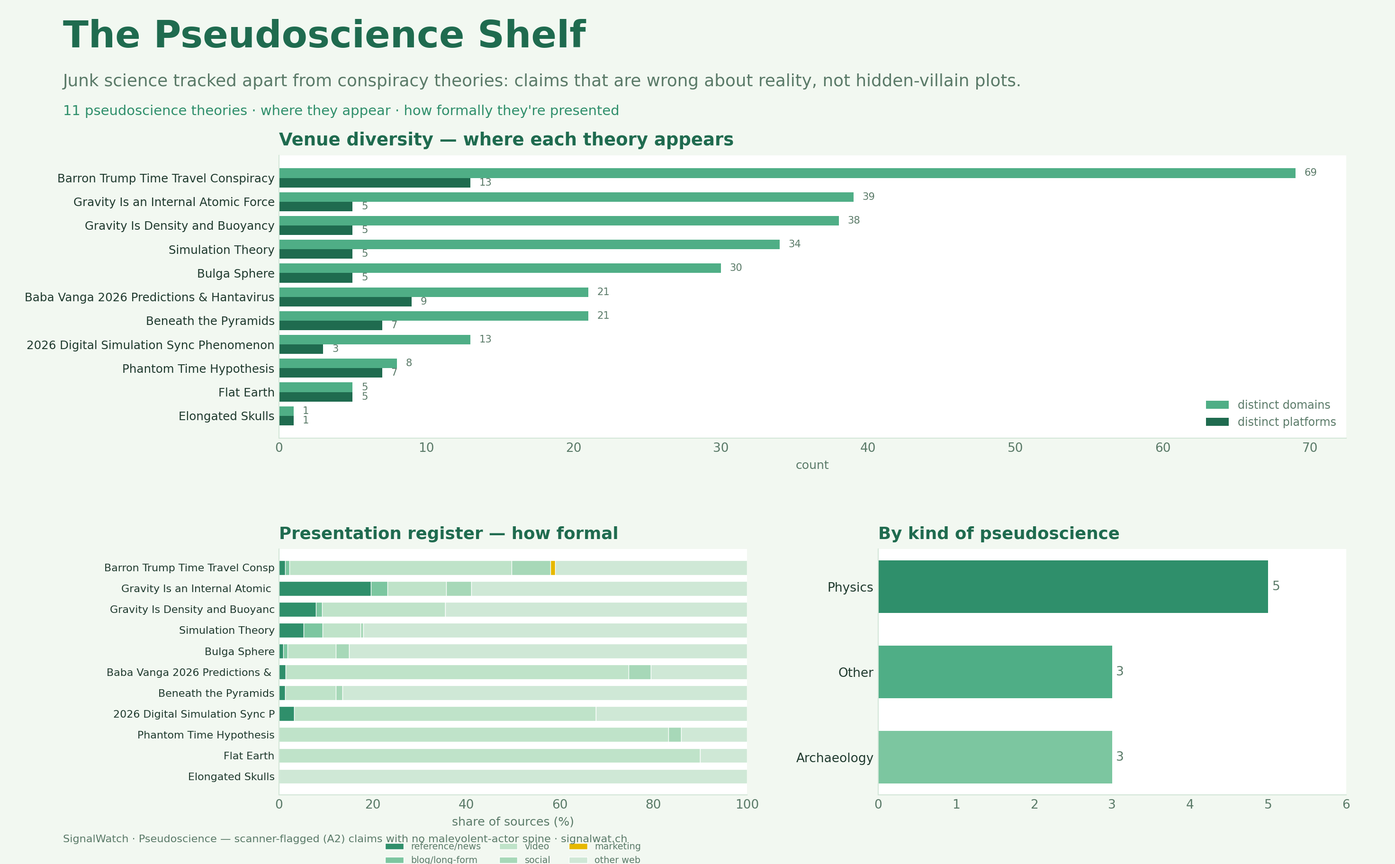
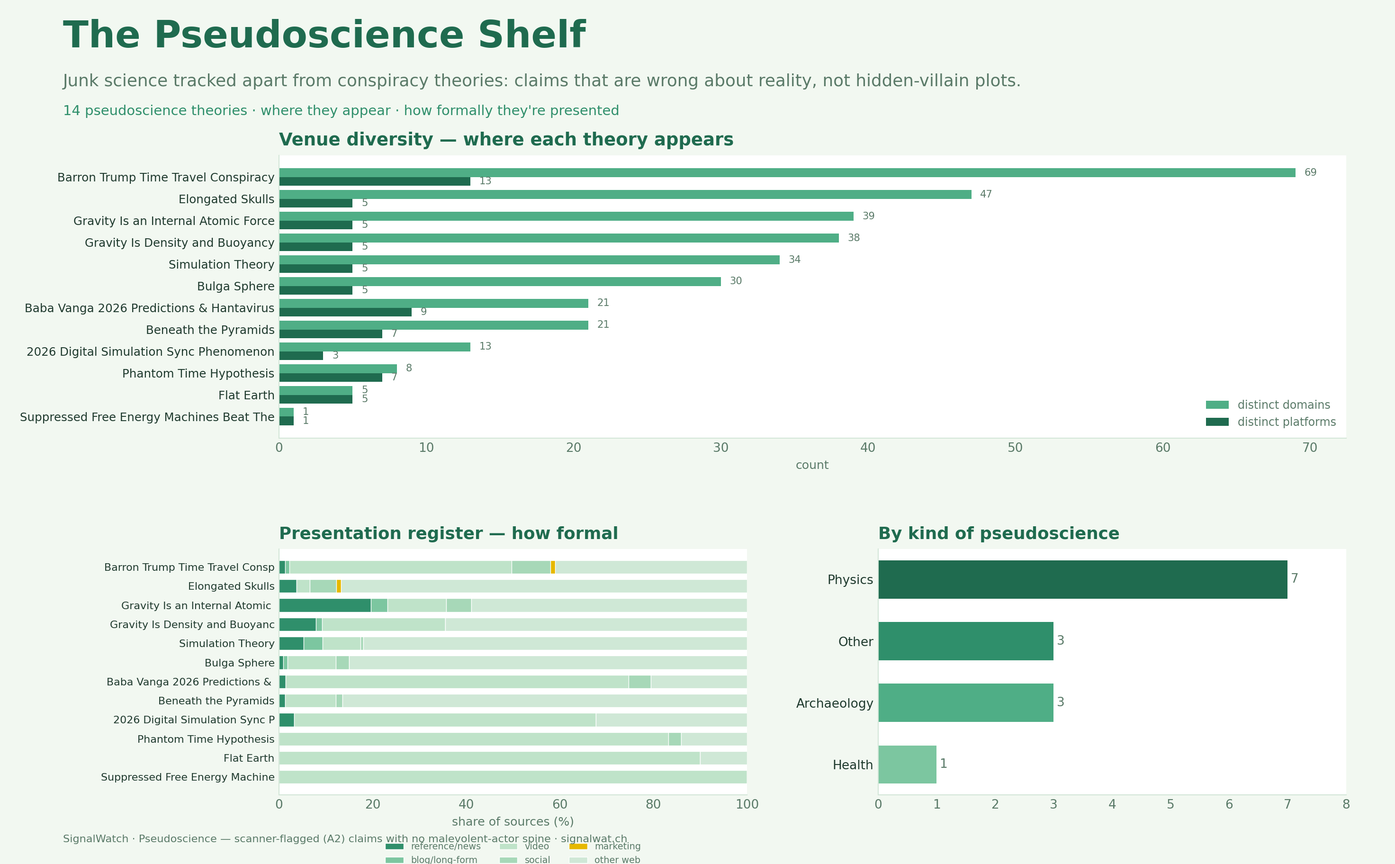
Theories index + proto section (18 proto)

diff --git a/latest/theories/index.html b/latest/theories/index.html
@@ -59,13 +59,13 @@ body{font-family:var(--sans);color:var(--ink);background:var(--bg);
     <a href="/latest/source-valence.html">Source Valence</a>
     <a href="/data/" title="Open datasets for researchers">Data</a>
     <a href="/pseudoscience/" title="Pseudoscience (junk science) tracked apart from conspiracies" style="color:#2f8f6b;font-weight:600">Pseudoscience</a>
-    
+    <a href="proto.html" style="color:#c2410c">Proto-theories</a>
   </nav>
 </div>
 <div class="layout">
   <aside class="side">
     <div class="shd">
-      <h2>Theories <span id="thcount" style="color:var(--ink-faint);font-size:.8rem">124</span></h2>
+      <h2>Theories <span id="thcount" style="color:var(--ink-faint);font-size:.8rem">106</span></h2>
       <input id="thsearch" type="search" placeholder="Search…" oninput="filt()">
     </div>
     
@@ -77,25 +77,21 @@ body{font-family:var(--sans);color:var(--ink);background:var(--bg);
 <button class="thx new" data-slug="aegon-chilakian" data-search="egon cholakian&#x27;s siberian plume eruption planetary catastrophe warning  informational" onclick="pick(this)"><span class="thn">Egon Cholakian&#x27;s Siberian Plume Eruption Planetary Catastrophe Warning</span><span class="thm">Informational</span></button>
 <div class="thgrp">All theories</div>
 <button class="thx" data-slug="viral-bitchute-rumble-2025-launched-with-coordinated-deep-state-psychological-op" data-search="2025 launched with coordinated deep state psychological operations  informational" onclick="pick(this)"><span class="thn">2025 launched with coordinated deep state psychological operations</span><span class="thm">Informational · 257 atoms</span></button>
-<button class="thx pseudo" data-slug="2026-digital-simulation-sync-phenomenon" data-search="2026 digital simulation sync phenomenon  informational" onclick="pick(this)"><span class="thn">2026 Digital Simulation Sync Phenomenon</span><span class="thm">Informational · 15 atoms</span></button>
-<button class="thx" data-slug="2026-mass-psyop-coordination-theory" data-search="2026 mass psyop coordination theory  informational" onclick="pick(this)"><span class="thn">2026 Mass Psyop Coordination Theory</span><span class="thm">Informational · 60 atoms</span></button>
-<button class="thx" data-slug="3i-atlas-interstellar-fuel-budget-conspiracy" data-search="3i/atlas interstellar fuel budget conspiracy  informational" onclick="pick(this)"><span class="thn">3I/ATLAS Interstellar Fuel Budget Conspiracy</span><span class="thm">Informational · 89 atoms</span></button>
+<button class="thx" data-slug="2026-mass-psyop-coordination-theory" data-search="2026 mass psyop coordination theory  informational deep state psyop season 2025 theory" onclick="pick(this)"><span class="thn">2026 Mass Psyop Coordination Theory</span><span class="thsub">↳ under Deep State Psyop Season 2025 Theory</span><span class="thm">Informational · 60 atoms</span></button>
 <button class="thx" data-slug="5g-covid-connection" data-search="5g/covid connection  moderate" onclick="pick(this)"><span class="thn">5G/COVID Connection</span><span class="thm">Moderate · 83 atoms</span></button>
 <button class="thx" data-slug="9-11-trutherism" data-search="9/11 trutherism  low" onclick="pick(this)"><span class="thn">9/11 Trutherism</span><span class="thm">Low · 306 atoms</span></button>
 <button class="thx" data-slug="adrenochrome-harvesting" data-search="adrenochrome harvesting  moderate" onclick="pick(this)"><span class="thn">Adrenochrome Harvesting</span><span class="thm">Moderate · 79 atoms</span></button>
-<button class="thx" data-slug="ai-portal-alien-summoning-theory" data-search="ai portal alien summoning theory  informational" onclick="pick(this)"><span class="thn">AI Portal Alien Summoning Theory</span><span class="thm">Informational · 34 atoms</span></button>
-<button class="thx" data-slug="area-51-ufo-coverup" data-search="area 51/ufo coverup  informational" onclick="pick(this)"><span class="thn">Area 51/UFO Coverup</span><span class="thm">Informational · 962 atoms</span></button>
+<button class="thx" data-slug="area-51-ufo-coverup" data-search="area 51/ufo coverup  informational spielberg ufo disclosure psyop theory" onclick="pick(this)"><span class="thn">Area 51/UFO Coverup</span><span class="thsub">▸ 1 sub-theory</span><span class="thm">Informational · 962 atoms</span></button>
 <button class="thx" data-slug="artemis-ii-hoax" data-search="artemis ii hoax  high" onclick="pick(this)"><span class="thn">Artemis II Hoax</span><span class="thm">High · 116 atoms</span></button>
 <button class="thx pseudo" data-slug="baba-vanga-2026-predictions-hantavirus" data-search="baba vanga 2026 predictions &amp; hantavirus prophecy  low" onclick="pick(this)"><span class="thn">Baba Vanga 2026 Predictions &amp; Hantavirus Prophecy</span><span class="thm">Low · 147 atoms</span></button>
 <button class="thx" data-slug="ballot-harvesting" data-search="ballot harvesting  moderate" onclick="pick(this)"><span class="thn">Ballot Harvesting</span><span class="thm">Moderate · 133 atoms</span></button>
 <button class="thx pseudo" data-slug="barron-trump-time-travel-conspiracy" data-search="barron trump time travel conspiracy  informational" onclick="pick(this)"><span class="thn">Barron Trump Time Travel Conspiracy</span><span class="thm">Informational · 308 atoms</span></button>
 <button class="thx pseudo" data-slug="beneath-the-pyramids" data-search="beneath the pyramids  informational" onclick="pick(this)"><span class="thn">Beneath the Pyramids</span><span class="thm">Informational · 77 atoms</span></button>
-<button class="thx" data-slug="big-pharma-suppression" data-search="big pharma suppression  moderate" onclick="pick(this)"><span class="thn">Big Pharma Suppression</span><span class="thm">Moderate · 122 atoms</span></button>
+<button class="thx" data-slug="big-pharma-suppression" data-search="big pharma suppression  moderate no-virus conspiracy" onclick="pick(this)"><span class="thn">Big Pharma Suppression</span><span class="thsub">▸ 1 sub-theory</span><span class="thm">Moderate · 122 atoms</span></button>
 <button class="thx" data-slug="bill-gates-microchip" data-search="bill gates microchip  moderate" onclick="pick(this)"><span class="thn">Bill Gates Microchip</span><span class="thm">Moderate · 206 atoms</span></button>
 <button class="thx" data-slug="body-double-theory" data-search="body double theory  informational" onclick="pick(this)"><span class="thn">Body Double Theory</span><span class="thm">Informational · 100 atoms</span></button>
 <button class="thx" data-slug="bondi-beach-mossad-false-flag" data-search="bondi beach mossad false flag  informational" onclick="pick(this)"><span class="thn">Bondi Beach Mossad False Flag</span><span class="thm">Informational · 218 atoms</span></button>
-<button class="thx pseudo" data-slug="bulga-sphere" data-search="bulga sphere  informational" onclick="pick(this)"><span class="thn">Bulga Sphere</span><span class="thm">Informational · 122 atoms</span></button>
-<button class="thx" data-slug="bush-stole-the-2000-election" data-search="bush stole the 2000 election  elevated" onclick="pick(this)"><span class="thn">Bush Stole the 2000 Election</span><span class="thm">Elevated · 52 atoms</span></button>
+<button class="thx" data-slug="bush-stole-the-2000-election" data-search="bush stole the 2000 election  elevated stop the steal" onclick="pick(this)"><span class="thn">Bush Stole the 2000 Election</span><span class="thsub">↳ under Stop the Steal</span><span class="thm">Elevated · 52 atoms</span></button>
 <button class="thx" data-slug="butler-shooting-staged" data-search="butler shooting staged  elevated" onclick="pick(this)"><span class="thn">Butler Shooting Staged</span><span class="thm">Elevated · 261 atoms</span></button>
 <button class="thx" data-slug="cancer-cure-suppression-conspiracy" data-search="cancer cure suppression conspiracy  moderate" onclick="pick(this)"><span class="thn">Cancer Cure Suppression Conspiracy</span><span class="thm">Moderate · 168 atoms</span></button>
 <button class="thx" data-slug="challenger-crew-still-alive" data-search="challenger crew still alive  elevated" onclick="pick(this)"><span class="thn">Challenger Crew Still Alive</span><span class="thm">Elevated · 48 atoms</span></button>
@@ -103,16 +99,13 @@ body{font-family:var(--sans);color:var(--ink);background:var(--bg);
 <button class="thx" data-slug="charlie-kirk-staged-death-cover-up" data-search="charlie kirk staged death cover-up  informational" onclick="pick(this)"><span class="thn">Charlie Kirk Staged Death Cover-Up</span><span class="thm">Informational · 276 atoms</span></button>
 <button class="thx" data-slug="chemtrails" data-search="chemtrails  low" onclick="pick(this)"><span class="thn">Chemtrails</span><span class="thm">Low · 352 atoms</span></button>
 <button class="thx" data-slug="covid-lab-leak" data-search="covid lab leak  informational" onclick="pick(this)"><span class="thn">COVID Lab Leak</span><span class="thm">Informational · 565 atoms</span></button>
-<button class="thx" data-slug="crisis-actors" data-search="crisis actors  high" onclick="pick(this)"><span class="thn">Crisis Actors</span><span class="thm">High · 317 atoms</span></button>
-<button class="thx" data-slug="dark-forest-theory" data-search="dark forest theory  informational" onclick="pick(this)"><span class="thn">Dark Forest Theory</span><span class="thm">Informational · 45 atoms</span></button>
+<button class="thx" data-slug="crisis-actors" data-search="crisis actors  high minnesota shooting psyop theory" onclick="pick(this)"><span class="thn">Crisis Actors</span><span class="thsub">▸ 1 sub-theory</span><span class="thm">High · 317 atoms</span></button>
 <button class="thx" data-slug="dead-people-voting" data-search="dead people voting  moderate" onclick="pick(this)"><span class="thn">Dead People Voting</span><span class="thm">Moderate · 151 atoms</span></button>
 <button class="thx" data-slug="deep-state" data-search="deep state  moderate" onclick="pick(this)"><span class="thn">Deep State</span><span class="thm">Moderate · 398 atoms</span></button>
-<button class="thx" data-slug="deep-state-psyop-season-2025-theory" data-search="deep state psyop season 2025 theory  informational" onclick="pick(this)"><span class="thn">Deep State Psyop Season 2025 Theory</span><span class="thm">Informational · 184 atoms</span></button>
-<button class="thx" data-slug="degendering-parenthood" data-search="degendering parenthood  high" onclick="pick(this)"><span class="thn">Degendering Parenthood</span><span class="thm">High · 47 atoms</span></button>
-<button class="thx" data-slug="democrats-knicks-loss-blame-trump" data-search="democrats wanted the knicks to lose to blame trump  informational" onclick="pick(this)"><span class="thn">Democrats Wanted the Knicks to Lose to Blame Trump</span><span class="thm">Informational · 8 atoms</span></button>
+<button class="thx" data-slug="deep-state-psyop-season-2025-theory" data-search="deep state psyop season 2025 theory  informational 2026 mass psyop coordination theory" onclick="pick(this)"><span class="thn">Deep State Psyop Season 2025 Theory</span><span class="thsub">▸ 1 sub-theory</span><span class="thm">Informational · 184 atoms</span></button>
 <button class="thx" data-slug="depopulation-agenda" data-search="depopulation agenda  high" onclick="pick(this)"><span class="thn">Depopulation Agenda</span><span class="thm">High · 187 atoms</span></button>
 <button class="thx" data-slug="dnc-rigged-the-2016-primary-against-bernie" data-search="dnc rigged the 2016 primary against bernie  elevated" onclick="pick(this)"><span class="thn">DNC Rigged the 2016 Primary Against Bernie</span><span class="thm">Elevated · 154 atoms</span></button>
-<button class="thx" data-slug="dominion-voting-machines" data-search="dominion voting machines  moderate" onclick="pick(this)"><span class="thn">Dominion Voting Machines</span><span class="thm">Moderate · 148 atoms</span></button>
+<button class="thx" data-slug="dominion-voting-machines" data-search="dominion voting machines  moderate stop the steal" onclick="pick(this)"><span class="thn">Dominion Voting Machines</span><span class="thsub">↳ under Stop the Steal</span><span class="thm">Moderate · 148 atoms</span></button>
 <button class="thx" data-slug="douma-chemical-attack-was-a-staged-false-flag" data-search="douma chemical attack was a staged false flag  elevated" onclick="pick(this)"><span class="thn">Douma Chemical Attack Was a Staged False Flag</span><span class="thm">Elevated · 113 atoms</span></button>
 <button class="thx pseudo" data-slug="elongated-skulls-paracas-peru-and-elsewhere-as-evidence-of-a-separate-intelligen" data-search="elongated skulls  elevated" onclick="pick(this)"><span class="thn">Elongated Skulls</span><span class="thm">Elevated · 63 atoms</span></button>
 <button class="thx" data-slug="emp-apocalypse" data-search="emp apocalypse  low" onclick="pick(this)"><span class="thn">EMP Apocalypse</span><span class="thm">Low · 103 atoms</span></button>
@@ -124,77 +117,66 @@ body{font-family:var(--sans);color:var(--ink);background:var(--bg);
 <button class="thx" data-slug="frazzledrip" data-search="frazzledrip  moderate" onclick="pick(this)"><span class="thn">Frazzledrip</span><span class="thm">Moderate · 70 atoms</span></button>
 <button class="thx" data-slug="gmo-ticks-alpha-gal-meat-allergy-weapon" data-search="gmo ticks alpha-gal meat allergy weapon  moderate" onclick="pick(this)"><span class="thn">GMO Ticks Alpha-Gal Meat Allergy Weapon</span><span class="thm">Moderate · 88 atoms</span></button>
 <button class="thx" data-slug="viral-tiktok-government-history-and-reality-are-all-manipulated-book-reveals-dee" data-search="government, history, and reality are all manipulated - book reveals deep deception  informational" onclick="pick(this)"><span class="thn">Government, history, and reality are all manipulated - book reveals deep deception</span><span class="thm">Informational · 143 atoms</span></button>
-<button class="thx pseudo" data-slug="gravity-is-an-internal-atomic-force" data-search="gravity is an internal atomic force  informational" onclick="pick(this)"><span class="thn">Gravity Is an Internal Atomic Force</span><span class="thm">Informational · 56 atoms</span></button>
 <button class="thx pseudo" data-slug="gravity-is-density-and-buoyancy" data-search="gravity is density and buoyancy  informational" onclick="pick(this)"><span class="thn">Gravity Is Density and Buoyancy</span><span class="thm">Informational · 77 atoms</span></button>
 <button class="thx" data-slug="great-replacement" data-search="great replacement  critical" onclick="pick(this)"><span class="thn">Great Replacement</span><span class="thm">Critical · 112 atoms</span></button>
 <button class="thx" data-slug="haarp-weather-control" data-search="haarp weather control  low" onclick="pick(this)"><span class="thn">HAARP Weather Control</span><span class="thm">Low · 177 atoms</span></button>
 <button class="thx" data-slug="haitians-eating-pets" data-search="haitians eating pets  high" onclick="pick(this)"><span class="thn">Haitians Eating Pets</span><span class="thm">High · 98 atoms</span></button>
 <button class="thx" data-slug="hanta-means-fake-or-scam-in-israeli-slang" data-search="hanta means fake or scam in israeli slang  low" onclick="pick(this)"><span class="thn">Hanta means fake or scam in Israeli slang</span><span class="thm">Low · 272 atoms</span></button>
 <button class="thx" data-slug="hantavirus-plandemic-successor-theory" data-search="hantavirus plandemic successor theory  moderate" onclick="pick(this)"><span class="thn">Hantavirus Plandemic Successor Theory</span><span class="thm">Moderate · 393 atoms</span></button>
-<button class="thx" data-slug="high-diesel-prices-staged-psyop" data-search="high diesel prices staged  informational" onclick="pick(this)"><span class="thn">High Diesel Prices Staged</span><span class="thm">Informational · 6 atoms</span></button>
 <button class="thx" data-slug="hollow-earth" data-search="hollow earth  informational" onclick="pick(this)"><span class="thn">Hollow Earth</span><span class="thm">Informational · 160 atoms</span></button>
 <button class="thx" data-slug="hugo-chavez-venezuela-connection" data-search="hugo chavez/venezuela connection  low" onclick="pick(this)"><span class="thn">Hugo Chavez/Venezuela Connection</span><span class="thm">Low · 70 atoms</span></button>
 <button class="thx" data-slug="illuminati-card-game-prophecy" data-search="illuminati card game prophecy (inwo)  low" onclick="pick(this)"><span class="thn">Illuminati Card Game Prophecy (INWO)</span><span class="thm">Low · 38 atoms</span></button>
 <button class="thx" data-slug="illuminati-secret-societies" data-search="illuminati/secret societies  low" onclick="pick(this)"><span class="thn">Illuminati/Secret Societies</span><span class="thm">Low · 306 atoms</span></button>
-<button class="thx" data-slug="iran-s-alleged-manipulation-of-regional-climate-through-radar-interference-is-li" data-search="iran&#x27;s alleged manipulation of regional climate through radar interference is linked to severe we  informational" onclick="pick(this)"><span class="thn">Iran&#x27;s alleged manipulation of regional climate through radar interference is linked to severe we</span><span class="thm">Informational · 35 atoms</span></button>
 <button class="thx" data-slug="jade-helm" data-search="jade helm  informational" onclick="pick(this)"><span class="thn">Jade Helm</span><span class="thm">Informational · 60 atoms</span></button>
 <button class="thx" data-slug="jfk-assassination-theories" data-search="jfk assassination theories  informational" onclick="pick(this)"><span class="thn">JFK Assassination Theories</span><span class="thm">Informational · 166 atoms</span></button>
 <button class="thx" data-slug="jfk-jr-alive" data-search="jfk jr. alive  low" onclick="pick(this)"><span class="thn">JFK Jr. Alive</span><span class="thm">Low · 254 atoms</span></button>
 <button class="thx" data-slug="maha-moms" data-search="maha moms  informational" onclick="pick(this)"><span class="thn">MAHA moms</span><span class="thm">Informational · 101 atoms</span></button>
 <button class="thx" data-slug="martial-law-imminence" data-search="martial law imminence  moderate" onclick="pick(this)"><span class="thn">Martial Law Imminence</span><span class="thm">Moderate · 70 atoms</span></button>
 <button class="thx" data-slug="maui-fires-directed-energy-weapon-theory" data-search="maui fires directed energy weapon theory  informational" onclick="pick(this)"><span class="thn">Maui Fires Directed Energy Weapon Theory</span><span class="thm">Informational · 88 atoms</span></button>
-<button class="thx" data-slug="mcdonald-s-mind-control" data-search="mcdonald&#x27;s mind control  informational" onclick="pick(this)"><span class="thn">McDonald&#x27;s Mind Control</span><span class="thm">Informational · 35 atoms</span></button>
+<button class="thx" data-slug="mcdonald-s-mind-control" data-search="mcdonald&#x27;s mind control  informational mkultra (extended)" onclick="pick(this)"><span class="thn">McDonald&#x27;s Mind Control</span><span class="thsub">↳ under MKUltra (Extended)</span><span class="thm">Informational · 35 atoms</span></button>
 <button class="thx" data-slug="medbeds" data-search="medbeds  moderate" onclick="pick(this)"><span class="thn">Medbeds</span><span class="thm">Moderate · 235 atoms</span></button>
 <button class="thx" data-slug="microneedle-implants-theory" data-search="microneedle implants theory  informational" onclick="pick(this)"><span class="thn">Microneedle Implants Theory</span><span class="thm">Informational · 40 atoms</span></button>
-<button class="thx" data-slug="minnesota-shooting-psyop-theory" data-search="minnesota shooting psyop theory  moderate" onclick="pick(this)"><span class="thn">Minnesota Shooting Psyop Theory</span><span class="thm">Moderate · 21 atoms</span></button>
+<button class="thx" data-slug="minnesota-shooting-psyop-theory" data-search="minnesota shooting psyop theory  moderate crisis actors" onclick="pick(this)"><span class="thn">Minnesota Shooting Psyop Theory</span><span class="thsub">↳ under Crisis Actors</span><span class="thm">Moderate · 21 atoms</span></button>
 <button class="thx" data-slug="missing-scientists" data-search="missing scientists  informational" onclick="pick(this)"><span class="thn">Missing Scientists</span><span class="thm">Informational · 272 atoms</span></button>
-<button class="thx" data-slug="mkultra-extended" data-search="mkultra (extended)  low" onclick="pick(this)"><span class="thn">MKUltra (Extended)</span><span class="thm">Low · 188 atoms</span></button>
+<button class="thx" data-slug="mkultra-extended" data-search="mkultra (extended)  low mcdonald&#x27;s mind control" onclick="pick(this)"><span class="thn">MKUltra (Extended)</span><span class="thsub">▸ 1 sub-theory</span><span class="thm">Low · 188 atoms</span></button>
 <button class="thx" data-slug="moon-landing-hoax" data-search="moon landing hoax  informational" onclick="pick(this)"><span class="thn">Moon Landing Hoax</span><span class="thm">Informational · 201 atoms</span></button>
 <button class="thx" data-slug="mrna-gene-therapy" data-search="mrna gene therapy  high" onclick="pick(this)"><span class="thn">mRNA Gene Therapy</span><span class="thm">High · 198 atoms</span></button>
 <button class="thx" data-slug="mysterious-deaths-and-disappearances-linked-to-america-s-nuclear-secrets" data-search="mysterious deaths and disappearances linked to america&#x27;s nuclear secrets  informational" onclick="pick(this)"><span class="thn">Mysterious Deaths and Disappearances Linked to America&#x27;s Nuclear Secrets</span><span class="thm">Informational · 242 atoms</span></button>
-<button class="thx" data-slug="mysterious-pipe" data-search="mysterious pipe  low" onclick="pick(this)"><span class="thn">Mysterious Pipe</span><span class="thm">Low</span></button>
 <button class="thx" data-slug="nazi-wonder-weapons" data-search="nazi wonder weapons  informational" onclick="pick(this)"><span class="thn">Nazi Wonder Weapons</span><span class="thm">Informational · 102 atoms</span></button>
 <button class="thx" data-slug="netanyahu-is-dead" data-search="netanyahu is dead  informational" onclick="pick(this)"><span class="thn">Netanyahu is Dead</span><span class="thm">Informational · 189 atoms</span></button>
 <button class="thx" data-slug="new-world-order" data-search="new world order  moderate" onclick="pick(this)"><span class="thn">New World Order</span><span class="thm">Moderate · 226 atoms</span></button>
 <button class="thx" data-slug="nick-fuentes-as-a-target-of-persecution" data-search="nick fuentes as a target of persecution  informational" onclick="pick(this)"><span class="thn">Nick Fuentes as a Target of Persecution</span><span class="thm">Informational · 57 atoms</span></button>
-<button class="thx" data-slug="no-virus-conspiracy" data-search="no-virus conspiracy  informational" onclick="pick(this)"><span class="thn">No-Virus Conspiracy</span><span class="thm">Informational · 28 atoms</span></button>
+<button class="thx" data-slug="no-virus-conspiracy" data-search="no-virus conspiracy  informational big pharma suppression" onclick="pick(this)"><span class="thn">No-Virus Conspiracy</span><span class="thsub">↳ under Big Pharma Suppression</span><span class="thm">Informational · 28 atoms</span></button>
 <button class="thx" data-slug="nuclear-weapons-hoax-atomic-weapons-do-not-exist" data-search="nuclear weapons hoax / atomic weapons do not exist  low" onclick="pick(this)"><span class="thn">Nuclear Weapons Hoax / Atomic Weapons Do Not Exist</span><span class="thm">Low · 39 atoms</span></button>
 <button class="thx" data-slug="october-6th-attack-on-israel-was-a-false-flag" data-search="october 6th attack on israel was a false flag  informational" onclick="pick(this)"><span class="thn">October 6th Attack on Israel Was A False Flag</span><span class="thm">Informational · 80 atoms</span></button>
 <button class="thx" data-slug="pfizer-hantavirus-vaccine-side-effect" data-search="pfizer hantavirus vaccine side effect  moderate" onclick="pick(this)"><span class="thn">Pfizer Hantavirus Vaccine Side Effect</span><span class="thm">Moderate · 283 atoms</span></button>
 <button class="thx pseudo" data-slug="phantom-time-hypothesis" data-search="phantom time hypothesis  informational" onclick="pick(this)"><span class="thn">Phantom Time Hypothesis</span><span class="thm">Informational · 149 atoms</span></button>
 <button class="thx" data-slug="pizzagate" data-search="pizzagate  high" onclick="pick(this)"><span class="thn">Pizzagate</span><span class="thm">High · 300 atoms</span></button>
 <button class="thx" data-slug="planet-x-nibiru" data-search="planet x/nibiru  low" onclick="pick(this)"><span class="thn">Planet X/Nibiru</span><span class="thm">Low · 207 atoms</span></button>
-<button class="thx" data-slug="project-a119-cultural-layer-sanitization-theory" data-search="project a119 cultural layer sanitization theory  informational" onclick="pick(this)"><span class="thn">Project A119 Cultural Layer Sanitization Theory</span><span class="thm">Informational · 72 atoms</span></button>
 <button class="thx" data-slug="protocols-of-the-elders-of-zion" data-search="protocols of the elders of zion  high" onclick="pick(this)"><span class="thn">Protocols of the Elders of Zion</span><span class="thm">High · 117 atoms</span></button>
-<button class="thx" data-slug="qanon" data-search="qanon  critical" onclick="pick(this)"><span class="thn">QAnon</span><span class="thm">Critical · 144 atoms</span></button>
+<button class="thx" data-slug="qanon" data-search="qanon  critical save the children (co-opted)" onclick="pick(this)"><span class="thn">QAnon</span><span class="thsub">▸ 1 sub-theory</span><span class="thm">Critical · 144 atoms</span></button>
 <button class="thx" data-slug="quantum-tartarian-reset-theory" data-search="quantum tartarian reset theory  informational" onclick="pick(this)"><span class="thn">Quantum Tartarian Reset Theory</span><span class="thm">Informational · 11 atoms</span></button>
 <button class="thx" data-slug="reptilian-elites" data-search="reptilian elite conspiracy theory  elevated" onclick="pick(this)"><span class="thn">Reptilian Elite Conspiracy Theory</span><span class="thm">Elevated · 12 atoms</span></button>
 <button class="thx" data-slug="robert-hayward-body-double" data-search="robert harward body double?  low" onclick="pick(this)"><span class="thn">Robert Harward Body Double?</span><span class="thm">Low · 109 atoms</span></button>
 <button class="thx" data-slug="rothschild-banking-conspiracy" data-search="rothschild banking conspiracy  moderate" onclick="pick(this)"><span class="thn">Rothschild Banking Conspiracy</span><span class="thm">Moderate · 129 atoms</span></button>
 <button class="thx" data-slug="russia-rigged-2016-voting-machines" data-search="russia rigged 2016 voting machines  elevated" onclick="pick(this)"><span class="thn">Russia Rigged 2016 Voting Machines</span><span class="thm">Elevated · 117 atoms</span></button>
 <button class="thx" data-slug="sandy-hook-hoax" data-search="sandy hook hoax  critical" onclick="pick(this)"><span class="thn">Sandy Hook Hoax</span><span class="thm">Critical · 309 atoms</span></button>
-<button class="thx" data-slug="save-the-children-co-opted" data-search="save the children (co-opted)  moderate" onclick="pick(this)"><span class="thn">Save the Children (Co-opted)</span><span class="thm">Moderate · 42 atoms</span></button>
+<button class="thx" data-slug="save-the-children-co-opted" data-search="save the children (co-opted)  moderate qanon" onclick="pick(this)"><span class="thn">Save the Children (Co-opted)</span><span class="thsub">↳ under QAnon</span><span class="thm">Moderate · 42 atoms</span></button>
 <button class="thx pseudo" data-slug="simulation-theory" data-search="simulation theory  informational" onclick="pick(this)"><span class="thn">Simulation Theory</span><span class="thm">Informational · 172 atoms</span></button>
-<button class="thx" data-slug="skywatcher-uap-detection" data-search="skywatcher uap detection  informational" onclick="pick(this)"><span class="thn">Skywatcher UAP Detection</span><span class="thm">Informational · 152 atoms</span></button>
-<button class="thx" data-slug="spielberg-ufo-disclosure-psyop-theory" data-search="spielberg ufo disclosure psyop theory  informational" onclick="pick(this)"><span class="thn">Spielberg UFO Disclosure Psyop Theory</span><span class="thm">Informational · 236 atoms</span></button>
-<button class="thx" data-slug="stop-the-steal" data-search="stop the steal  critical" onclick="pick(this)"><span class="thn">Stop the Steal</span><span class="thm">Critical · 327 atoms</span></button>
+<button class="thx" data-slug="spielberg-ufo-disclosure-psyop-theory" data-search="spielberg ufo disclosure psyop theory  informational area 51/ufo coverup" onclick="pick(this)"><span class="thn">Spielberg UFO Disclosure Psyop Theory</span><span class="thsub">↳ under Area 51/UFO Coverup</span><span class="thm">Informational · 236 atoms</span></button>
+<button class="thx" data-slug="stop-the-steal" data-search="stop the steal  critical dominion voting machines, bush stole the 2000 election" onclick="pick(this)"><span class="thn">Stop the Steal</span><span class="thsub">▸ 2 sub-theories</span><span class="thm">Critical · 327 atoms</span></button>
 <button class="thx" data-slug="super-computer-called-sentient-declassified" data-search="super computer called &quot;sentient&quot; declassified  low" onclick="pick(this)"><span class="thn">Super computer called &quot;Sentient&quot; declassified</span><span class="thm">Low · 21 atoms</span></button>
 <button class="thx" data-slug="tartarian-empire" data-search="tartarian empire  informational" onclick="pick(this)"><span class="thn">Tartarian Empire</span><span class="thm">Informational · 141 atoms</span></button>
-<button class="thx" data-slug="the-baal-room" data-search="the baal room  moderate" onclick="pick(this)"><span class="thn">The Baal Room</span><span class="thm">Moderate · 258 atoms</span></button>
-<button class="thx" data-slug="the-ettore-majorana-device" data-search="the ettore majorana device  informational" onclick="pick(this)"><span class="thn">The Ettore Majorana Device</span><span class="thm">Informational</span></button>
 <button class="thx" data-slug="the-great-reset" data-search="the great reset  moderate" onclick="pick(this)"><span class="thn">The Great Reset</span><span class="thm">Moderate · 142 atoms</span></button>
 <button class="thx" data-slug="the-storm-great-awakening" data-search="the storm / great awakening  high" onclick="pick(this)"><span class="thn">The Storm / Great Awakening</span><span class="thm">High · 115 atoms</span></button>
-<button class="thx" data-slug="torenza-passport-country-hoax" data-search="torenza passport country hoax  informational" onclick="pick(this)"><span class="thn">Torenza Passport Country Hoax</span><span class="thm">Informational · 114 atoms</span></button>
 <button class="thx" data-slug="transing-the-kids" data-search="transing the kids  elevated" onclick="pick(this)"><span class="thn">Transing the Kids</span><span class="thm">Elevated · 182 atoms</span></button>
 <button class="thx" data-slug="transvestigation" data-search="transvestigation  moderate" onclick="pick(this)"><span class="thn">Transvestigation</span><span class="thm">Moderate · 70 atoms</span></button>
 <button class="thx" data-slug="trump-assassination-attempt-was-faked" data-search="trump assassination attempt was faked  informational" onclick="pick(this)"><span class="thn">Trump Assassination Attempt was faked</span><span class="thm">Informational · 258 atoms</span></button>
 <button class="thx" data-slug="trump-chemtrails-task-force-operation" data-search="trump chemtrails task force operation  informational" onclick="pick(this)"><span class="thn">Trump Chemtrails Task Force Operation</span><span class="thm">Informational · 173 atoms</span></button>
-<button class="thx" data-slug="trump-mobile-palantir-surveillance-honeytrap" data-search="trump mobile palantir surveillance honeytrap  low" onclick="pick(this)"><span class="thn">Trump Mobile Palantir Surveillance Honeytrap</span><span class="thm">Low · 9 atoms</span></button>
 <button class="thx" data-slug="trump-situation-room-exclusion-theory" data-search="trump situation room exclusion theory  informational" onclick="pick(this)"><span class="thn">Trump Situation Room Exclusion Theory</span><span class="thm">Informational · 25 atoms</span></button>
 <button class="thx" data-slug="uk-grooming-gangs-narrative" data-search="uk muslim grooming gangs &amp; immigrant-crime narrative  elevated" onclick="pick(this)"><span class="thn">UK Muslim Grooming Gangs &amp; immigrant-crime narrative</span><span class="thm">Elevated · 2 atoms</span></button>
 <button class="thx" data-slug="vaccines-cause-autism" data-search="vaccines cause autism  high" onclick="pick(this)"><span class="thn">Vaccines Cause Autism</span><span class="thm">High · 176 atoms</span></button>
 <button class="thx" data-slug="whcd-security-stand-down-protocol" data-search="whcd security stand-down protocol  informational" onclick="pick(this)"><span class="thn">WHCD Security Stand-Down Protocol</span><span class="thm">Informational · 236 atoms</span></button>
-<button class="thx" data-slug="woke-hate-group-manufacturing-scandal" data-search="woke hate group manufacturing scandal  informational" onclick="pick(this)"><span class="thn">Woke Hate Group Manufacturing Scandal</span><span class="thm">Informational · 21 atoms</span></button>
 <button class="thx" data-slug="zog-zionist-occupied-government" data-search="zog (zionist occupied government)  critical" onclick="pick(this)"><span class="thn">ZOG (Zionist Occupied Government)</span><span class="thm">Critical · 129 atoms</span></button>
       <div class="thnone" id="thnone">No theories match.</div>
     </div>

diff --git a/pseudoscience/index.html b/pseudoscience/index.html
@@ -39,7 +39,7 @@ h1{font-family:var(--serif);font-weight:600;font-size:2.05rem;margin:0 0 6px;col
 <div class="wrap">
   <h1>Pseudoscience</h1>
   <p class="lede">Junk science tracked <i>apart</i> from conspiracy theories — claims that are wrong about
-   physical reality, history, or how the world works, rather than hidden-villain plots. 11 theories,
+   physical reality, history, or how the world works, rather than hidden-villain plots. 14 theories,
    updated 2026-06-20.</p>
   <div class="note"><b>What makes this a separate shelf:</b> these are flagged by SignalWatch's pseudoscience
    scanner (the A2 marker battery — physical-law violations, fringe-cosmology, pseudo-archaeology) <b>and</b>
@@ -51,5 +51,5 @@ h1{font-family:var(--serif);font-weight:600;font-size:2.05rem;margin:0 0 6px;col
    where each theory appears (distinct platforms + domains). <b>Presentation register</b> shows how formally it's
    presented — reference/news, blog/long-form, video, social, or marketing material — a proxy for white-paper
    vs. blog vs. marketing framing. Most pseudoscience travels through video and social channels, not journals.</p>
-  <h2 class="ps-kind">Crank physics &amp; cosmology <span>5</span></h2><div class="ps-grid"><a class="ps-card" href="/latest/theories/barron-trump-time-travel-conspiracy.html"><h3>Barron Trump Time Travel Conspiracy</h3><span class="ps-meta">Informational · 308 atoms</span></a><a class="ps-card" href="/latest/theories/flat-earth.html"><h3>Flat Earth</h3><span class="ps-meta">Low · 90 atoms</span></a><a class="ps-card" href="/latest/theories/gravity-is-an-internal-atomic-force.html"><h3>Gravity Is an Internal Atomic Force</h3><span class="ps-meta">Informational · 56 atoms</span></a><a class="ps-card" href="/latest/theories/gravity-is-density-and-buoyancy.html"><h3>Gravity Is Density and Buoyancy</h3><span class="ps-meta">Informational · 77 atoms</span></a><a class="ps-card" href="/latest/theories/simulation-theory.html"><h3>Simulation Theory</h3><span class="ps-meta">Informational · 172 atoms</span></a></div><h2 class="ps-kind">Other <span>3</span></h2><div class="ps-grid"><a class="ps-card" href="/latest/theories/2026-digital-simulation-sync-phenomenon.html"><h3>2026 Digital Simulation Sync Phenomenon</h3><span class="ps-meta">Informational · 15 atoms</span></a><a class="ps-card" href="/latest/theories/baba-vanga-2026-predictions-hantavirus.html"><h3>Baba Vanga 2026 Predictions &amp; Hantavirus Prophecy</h3><span class="ps-meta">Low · 147 atoms</span></a><a class="ps-card" href="/latest/theories/bulga-sphere.html"><h3>Bulga Sphere</h3><span class="ps-meta">Informational · 122 atoms</span></a></div><h2 class="ps-kind">Pseudo-archaeology &amp; lost history <span>3</span></h2><div class="ps-grid"><a class="ps-card" href="/latest/theories/beneath-the-pyramids.html"><h3>Beneath the Pyramids</h3><span class="ps-meta">Informational · 77 atoms</span></a><a class="ps-card" href="/latest/theories/elongated-skulls-paracas-peru-and-elsewhere-as-evidence-of-a-separate-intelligen.html"><h3>Elongated Skulls</h3><span class="ps-meta">Elevated</span></a><a class="ps-card" href="/latest/theories/phantom-time-hypothesis.html"><h3>Phantom Time Hypothesis</h3><span class="ps-meta">Informational · 149 atoms</span></a></div>
+  <h2 class="ps-kind">Crank physics &amp; cosmology <span>7</span></h2><div class="ps-grid"><a class="ps-card" href="/latest/theories/barron-trump-time-travel-conspiracy.html"><h3>Barron Trump Time Travel Conspiracy</h3><span class="ps-meta">Informational · 308 atoms</span></a><a class="ps-card" href="/latest/theories/flat-earth.html"><h3>Flat Earth</h3><span class="ps-meta">Low · 90 atoms</span></a><a class="ps-card" href="/latest/theories/gravity-is-an-internal-atomic-force.html"><h3>Gravity Is an Internal Atomic Force</h3><span class="ps-meta">Informational · 56 atoms</span></a><a class="ps-card" href="/latest/theories/gravity-is-density-and-buoyancy.html"><h3>Gravity Is Density and Buoyancy</h3><span class="ps-meta">Informational · 77 atoms</span></a><a class="ps-card" href="/latest/theories/simulation-theory.html"><h3>Simulation Theory</h3><span class="ps-meta">Informational · 172 atoms</span></a><a class="ps-card" href="/latest/theories/suppressed-free-energy-machines-beat-thermodynamic-laws.html"><h3>Suppressed Free Energy Machines Beat Thermodynamic Laws</h3><span class="ps-meta">Informational · 3 atoms</span></a><a class="ps-card" href="/latest/theories/vortex-math-and-the-rodin-coil.html"><h3>Vortex Math and the Rodin Coil</h3><span class="ps-meta">Informational</span></a></div><h2 class="ps-kind">Other <span>3</span></h2><div class="ps-grid"><a class="ps-card" href="/latest/theories/2026-digital-simulation-sync-phenomenon.html"><h3>2026 Digital Simulation Sync Phenomenon</h3><span class="ps-meta">Informational · 15 atoms</span></a><a class="ps-card" href="/latest/theories/baba-vanga-2026-predictions-hantavirus.html"><h3>Baba Vanga 2026 Predictions &amp; Hantavirus Prophecy</h3><span class="ps-meta">Low · 147 atoms</span></a><a class="ps-card" href="/latest/theories/bulga-sphere.html"><h3>Bulga Sphere</h3><span class="ps-meta">Informational · 122 atoms</span></a></div><h2 class="ps-kind">Pseudo-archaeology &amp; lost history <span>3</span></h2><div class="ps-grid"><a class="ps-card" href="/latest/theories/beneath-the-pyramids.html"><h3>Beneath the Pyramids</h3><span class="ps-meta">Informational · 77 atoms</span></a><a class="ps-card" href="/latest/theories/elongated-skulls-paracas-peru-and-elsewhere-as-evidence-of-a-separate-intelligen.html"><h3>Elongated Skulls</h3><span class="ps-meta">Elevated · 63 atoms</span></a><a class="ps-card" href="/latest/theories/phantom-time-hypothesis.html"><h3>Phantom Time Hypothesis</h3><span class="ps-meta">Informational · 149 atoms</span></a></div><h2 class="ps-kind">Health pseudoscience <span>1</span></h2><div class="ps-grid"><a class="ps-card" href="/latest/theories/quantum-frequency-and-scalar-healing-devices.html"><h3>Quantum Frequency and Scalar Healing Devices</h3><span class="ps-meta">Informational</span></a></div>
 </div></body></html>

diff --git a/data/index.html b/data/index.html
@@ -104,7 +104,7 @@ h1{font-family:var(--serif);font-weight:600;font-size:2rem;margin:0 0 6px}
       <article class="dl-card">
         <div class="dl-hd"><span class="dl-tag">CSV</span><span class="dl-size">201 KB</span></div>
         <h2>Theory dataset</h2>
-        <p class="dl-desc">One row per tracked conspiracy theory (121 total). The flat, spreadsheet-ready cut of the database.</p>
+        <p class="dl-desc">One row per tracked conspiracy theory (124 total). The flat, spreadsheet-ready cut of the database.</p>
         <div class="dl-incl"><b>Includes:</b><ul><li>Political lean (centroid) + bimodality / modality</li><li>Power, threat, and harm scores; lifecycle status</li><li>Ontology axes: family, mechanism, arena, controlling interest, infrastructure burden</li><li>Structural pattern (archetype) + sub-theory parent</li><li>Core claims, summary, activity metrics &amp; dates</li></ul></div>
         <div class="excl"><b>Omitted:</b><ul><li>Voice-of-the-Believer / Voice-of-Reason narrative prose</li><li>Individual atoms (post-level data)</li><li>Data-visualisation arrays</li></ul></div>
         <a class="dl-btn" href="/data/signalwatch_theories.csv" download>Download CSV <span>&#8595;</span></a>
